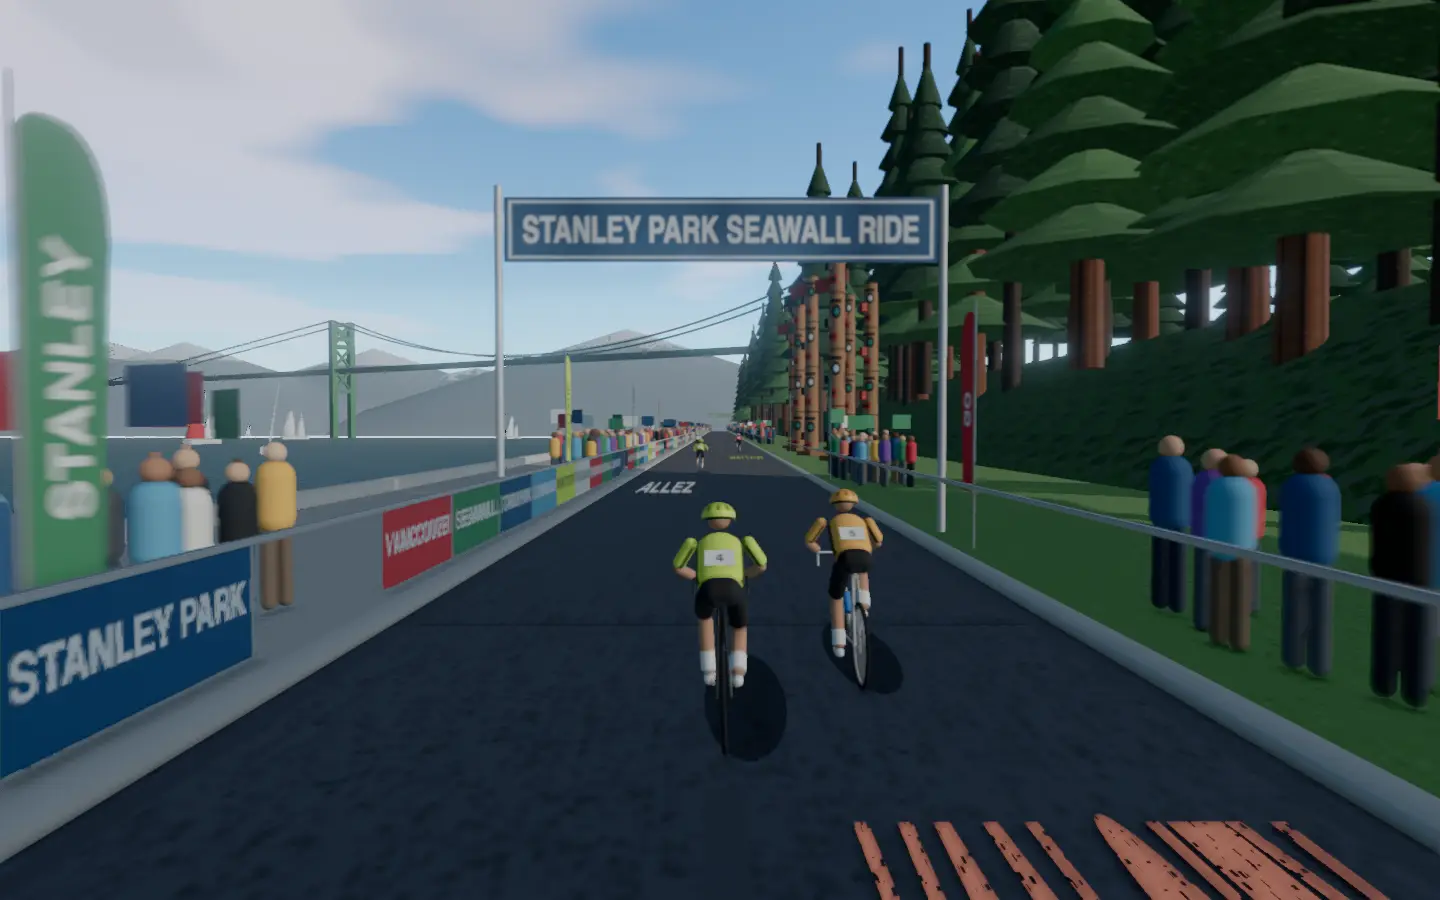
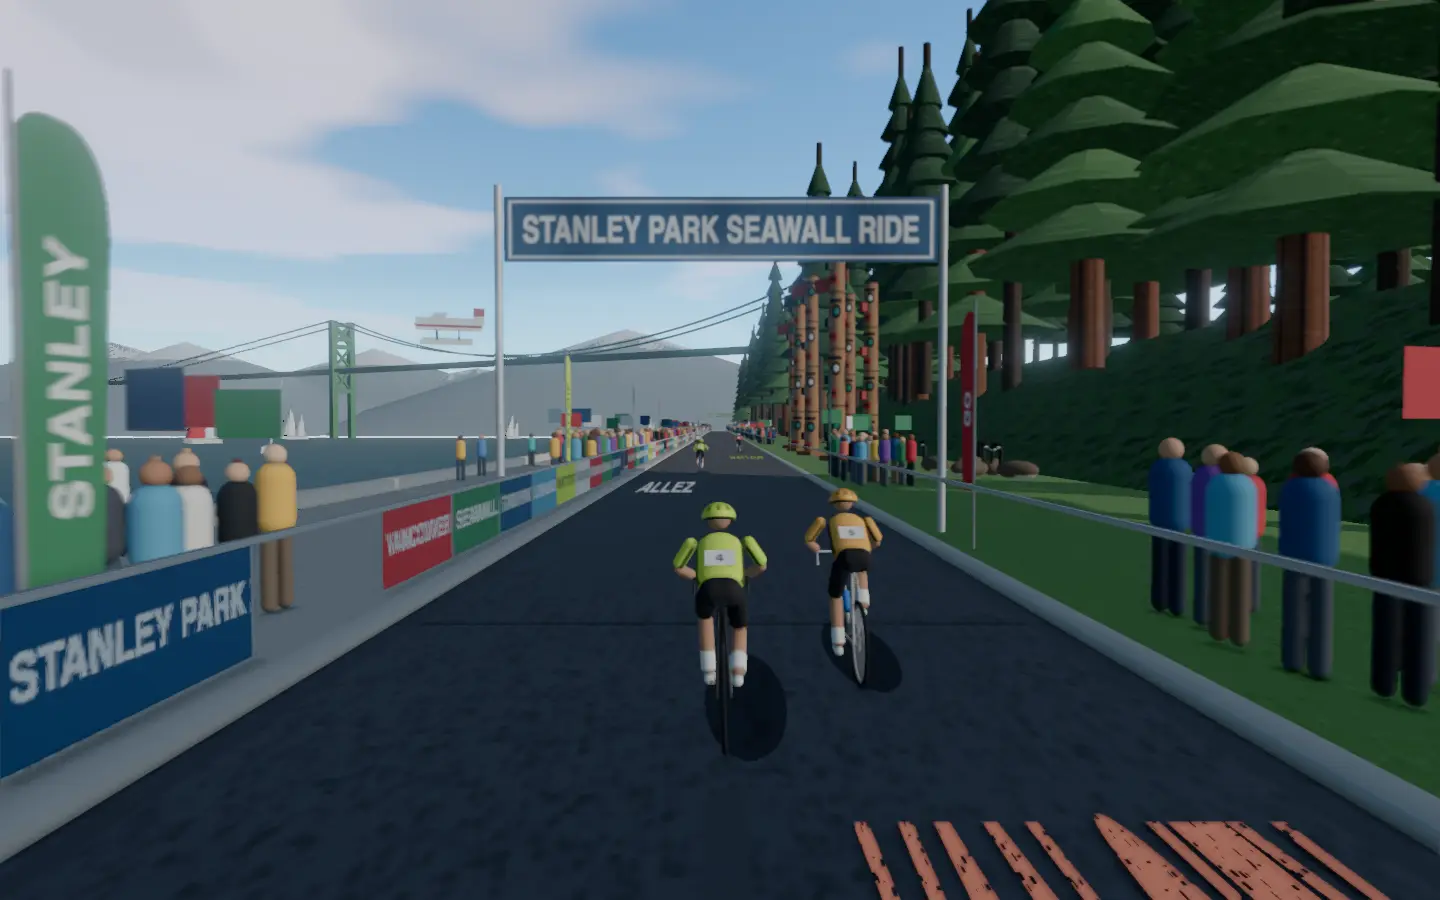
Bring life to Stanley Park's seawall: walkers, geese and a floatplane
The walkway's walkers and joggers grow from fourteen to twenty-six, half of
them in the stretch the rider first sees; flocks of Canada geese graze on
the verge; and a white floatplane with red-striped floats banks in a slow
arc low over English Bay toward Coal Harbour. Render quality 72% -> 74%
(crowd and life 6 -> 8).

diff --git a/frontend/projects/wattzup/src/app/core/world-stanleypark.ts b/frontend/projects/wattzup/src/app/core/world-stanleypark.ts
@@ -17,10 +17,12 @@ import {
   CylinderGeometry,
   DoubleSide,
   Group,
+  type Material,
   Mesh,
   MeshStandardMaterial,
   PlaneGeometry,
   RepeatWrapping,
+  SphereGeometry,
   type Texture,
   BoxGeometry,
 } from 'three/webgpu';
@@ -71,7 +73,9 @@ const BRIDGE_AHEAD = 480;
 const BRIDGE_X = 70;
 const BRIDGE_TURN = -0.5;
 const HAZE = 0xcfdde8;
-const WALKERS = 14;
+const WALKERS = 26;
+/** Canada geese grazing on the verge, in small flocks. */
+const GEESE = 14;
 const BOATS = 12;
 
 const SKINS = ['#f1c7a5', '#e2b48c', '#d9a17c', '#b67a55', '#8a5a3c', '#5e3b26'];
@@ -145,6 +149,8 @@ export class StanleyParkStreet implements SceneStreet {
   private readonly walkers: Walker[] = [];
   private people: Figures | null = null;
   private readonly horizon = new Group();
+  private readonly geese: { mesh: Group; offset: number; x: number; phase: number }[] = [];
+  private readonly floatplane = new Group();
   private time = 0;
   private readonly unit = new BoxGeometry(1, 1, 1);
   private readonly flagMaterials = ['#d8283a', '#ffffff', '#1f4e79', '#2e8b57'].map(
@@ -185,6 +191,8 @@ export class StanleyParkStreet implements SceneStreet {
     this.addRoadPaint();
     this.addBoats();
     this.addWalkers();
+    this.addGeese();
+    this.addFloatplane();
     this.addHorizon();
   }
 
@@ -233,6 +241,21 @@ export class StanleyParkStreet implements SceneStreet {
       });
       people.commit();
     }
+    // The geese peck at the grass, wandering a little.
+    for (const g of this.geese) {
+      const metres = along(g.offset, LOOP);
+      g.mesh.position.set(g.x + Math.sin(t * 0.1 + g.phase) * 0.4, ground(metres) + KERB, -metres);
+      g.mesh.rotation.y = g.phase + Math.sin(t * 0.07 + g.phase) * 0.8;
+      g.mesh.children[1]!.rotation.x = Math.max(0, Math.sin(t * 1.3 + g.phase)) * 1.1;
+    }
+    // The floatplane banks in a slow arc low over the bay, ahead and to the left.
+    const arc = t * 0.035;
+    this.floatplane.position.set(
+      -70 + Math.sin(arc) * 15,
+      heightAt(0) + 26 + Math.sin(arc * 2) * 2,
+      -200 + Math.cos(arc) * 15,
+    );
+    this.floatplane.rotation.set(0, arc + Math.PI / 2, 0.22);
     this.horizon.position.set(0, heightAt(BRIDGE_AHEAD), -BRIDGE_AHEAD);
   }
 
@@ -544,12 +567,97 @@ export class StanleyParkStreet implements SceneStreet {
       const running = i % 3 === 0;
       const ahead = i % 2 === 0;
       this.walkers.push({
-        offset: random() * LOOP,
+        // Half of them in the stretch the rider first sees, the rest round the loop.
+        offset: i % 2 ? 100 + random() * 160 : random() * LOOP,
         speed: (ahead ? 1 : -1) * (running ? 2.8 : 1.3),
         x: -(WALKWAY + (ahead ? -0.6 : 0.6)),
         phase: random() * 6,
       });
     }
+  }
+
+  /** Canada geese on the verge: brown backs, black necks with white chinstraps, heads down. */
+  private addGeese(): void {
+    const random = seeded(709);
+    const body = new SphereGeometry(1, 10, 8);
+    this.disposables.push(body);
+    const brown = this.material({ color: 0x6b5a48, roughness: 0.9 });
+    const black = this.material({ color: 0x161616, roughness: 0.8 });
+    const white = this.material({ color: 0xf2f2ee, roughness: 0.8 });
+    const pale = this.material({ color: 0xd8d0c0, roughness: 0.9 });
+    for (let k = 0; k < GEESE; k++) {
+      const goose = new Group();
+      const b = new Mesh(body, brown);
+      b.scale.set(0.2, 0.17, 0.38);
+      b.position.y = 0.32;
+      const belly = new Mesh(body, pale);
+      belly.scale.set(0.17, 0.12, 0.3);
+      belly.position.set(0, 0.26, 0.04);
+      b.castShadow = true;
+      // The neck pivots at the shoulders so the head dips to graze.
+      const neck = new Group();
+      neck.position.set(0, 0.38, -0.3);
+      const n = new Mesh(this.unit, black);
+      n.scale.set(0.06, 0.36, 0.06);
+      n.position.y = 0.18;
+      const head = new Mesh(body, black);
+      head.scale.set(0.06, 0.06, 0.1);
+      head.position.set(0, 0.37, -0.05);
+      const strap = new Mesh(body, white);
+      strap.scale.set(0.065, 0.035, 0.05);
+      strap.position.set(0, 0.34, -0.03);
+      neck.add(n, head, strap);
+      goose.add(b, neck, belly);
+      goose.scale.setScalar(1.8);
+      this.group.add(goose);
+      const flock = Math.floor(k / 5);
+      this.geese.push({
+        mesh: goose,
+        offset: 120 + flock * 45 + random() * 8,
+        x: 7.5 + random() * 4,
+        phase: random() * 6,
+      });
+    }
+  }
+
+  /**
+   * A floatplane over the bay: a white high-wing single-engine plane on two floats, a red
+   * stripe down its side and on its tail, banking in a slow arc as it comes in to Coal Harbour.
+   */
+  private addFloatplane(): void {
+    const white = this.material({ color: 0xf4f4f0, roughness: 0.5 });
+    const red = this.material({ color: 0xc0302a, roughness: 0.6 });
+    const dark = this.material({ color: 0x2a2e34, roughness: 0.5 });
+    const p = this.floatplane;
+    const part = (
+      m: Material,
+      w: number,
+      h: number,
+      d: number,
+      x: number,
+      y: number,
+      z: number,
+    ) => {
+      const mesh = new Mesh(this.unit, m);
+      mesh.scale.set(w, h, d);
+      mesh.position.set(x, y, z);
+      p.add(mesh);
+    };
+    part(white, 1.6, 1.8, 9.5, 0, 0, 0);
+    part(red, 1.65, 0.35, 9.6, 0, -0.2, 0);
+    part(dark, 1.5, 0.7, 1.4, 0, 0.5, -2.8);
+    part(white, 15, 0.25, 2, 0, 1.0, -1.6);
+    part(white, 0.25, 2.4, 1.6, 0, 1.4, 4.4);
+    part(red, 0.3, 1.2, 1.6, 0, 1.9, 4.4);
+    part(white, 5, 0.2, 1.4, 0, 0.3, 4.4);
+    for (const x of [-1.6, 1.6]) {
+      part(white, 0.6, 0.6, 7.5, x, -2.6, -0.4);
+      part(dark, 0.15, 1.8, 0.15, x * 0.7, -1.6, -1.8);
+      part(dark, 0.15, 1.8, 0.15, x * 0.7, -1.6, 1.4);
+    }
+    part(dark, 2.8, 0.15, 0.1, 0, 0, -4.85);
+    p.scale.setScalar(1.6);
+    this.group.add(p);
   }
 
   /**

diff --git a/docs/detailed-designs/world-ride/draw-class-scene/README.md b/docs/detailed-designs/world-ride/draw-class-scene/README.md
@@ -237,10 +237,10 @@ None.
   - crowds packed along both pavements, thickest before the stages, and the bands on the decks, all bouncing on the beat (`Figures`).
 - **Stanley Park Seawall (`core/world-stanleypark.ts`).** For `stanleypark`, the seawall path around Vancouver's Stanley Park on a clear morning, closed for the ride:
   - the path between low kerbs with the fans' writing every 25 m, race barriers hung with the ride's banners (STANLEY PARK, SEAWALL, VANCOUVER, ENGLISH BAY, LIONS GATE), the kit's feather flags every 16 m along both and cloth banners across it;
-  - on the left a concrete walkway where walkers and joggers go both ways (the kit's `Figures`), then the seawall's granite face dropping to English Bay, sailboats tacking on it; `sink` drops the ground below the water;
+  - on the left a concrete walkway where twenty-six walkers and joggers go both ways (the kit's `Figures`), half of them in the stretch the rider first sees, then the seawall's granite face dropping to English Bay, sailboats tacking on it; `sink` drops the ground below the water;
   - on the right a grass verge, a mossy rock bank rising 7 m and the forest on and above it: western red cedars with drooping tiers on fluted reddish trunks and tall dark Douglas firs;
   - once a lap, 140 m into the loop and so in the opening view, the totem poles of Brockton Point on their lawn 6.2 m off the centre line, the crowd and the trees standing back from them: carved cedar poles of four stacked figures painted black, red and blue-green, each turned so its faces and beaks look out over the path toward the oncoming riders, some with wings outstretched;
-  - the shared crowd in knots along the barriers;
+  - the shared crowd in knots along the barriers, flocks of Canada geese grazing on the verge, and a white floatplane with red stripes on its floats banking in a slow arc low over the bay ahead and to the left, coming in to Coal Harbour;
   - 480 m ahead the Lions Gate Bridge leaving the park's headland 70 m right of the path and crossing the narrows, turned half a radian away so its towers' legs stand apart and its deck and cables run off into the distance: green towers with portal struts and X-bracing in each bay, sagging main cables with hangers and the high deck, freighters at anchor in the bay and the North Shore mountains about 4 km off, forested ridges with snow on their tops, all hazed by hand.
 
   `lay`, `place` and `setTime` recycle it along a 500 m loop.

diff --git a/docs/class-worlds.md b/docs/class-worlds.md
@@ -25,7 +25,7 @@ Every class in `frontend/public/classes.json`, with its World Ride scene. Render
 | 19 | 15 Minutes HIIT Sprinting Efforts | Golden Gate Park | 81% | Fog drifts through the eucalyptus and Monterey cypress along John F. Kennedy Drive in San Francisco's Golden Gate Park, past roller skaters, Spreckels Lake and the bison grazing in their paddock toward the Dutch Windmill above Ocean Beach. The one-minute opener rolls through the eucalyptus groves, and the seven thirty-second sprints each fly past the bison paddock before a minute's recovery coasts on toward the windmill. |
 | 20 | In and Out, Shake It All About | Blackpool Illuminations | 68% | Seaside lights, piers and the tower; weave in and out of tram stops along the illuminated promenade. |
 | 21 | Quick Sprint Session | Copacabana Promenade (concept) |  | Rio's wave-patterned beachfront at sunset; sprint between volleyball nets with Sugarloaf on the horizon. |
-| 22 | 15 Minute Beginner Session | Stanley Park Seawall | 72% | The seawall path curls around Vancouver's Stanley Park between the cedars and the sea, past the totem poles at Brockton Point and sailboats on English Bay toward the green towers of the Lions Gate Bridge under the North Shore mountains. The easy warm-up rolls past the totem poles, the one- and two-minute pushes follow the seawall's curve under the cedars, and the single thirty-second sprint races toward the bridge. |
+| 22 | 15 Minute Beginner Session | Stanley Park Seawall | 74% | The seawall path curls around Vancouver's Stanley Park between the cedars and the sea, past the totem poles at Brockton Point and sailboats on English Bay toward the green towers of the Lions Gate Bridge under the North Shore mountains. The easy warm-up rolls past the totem poles, the one- and two-minute pushes follow the seawall's curve under the cedars, and the single thirty-second sprint races toward the bridge. |
 | 23 | 15 Minute Cardio Workout at Home | Suburban Sunrise | 70% | Quiet tree-lined streets at dawn; sprinklers ticking, papers landing, neighbours waving from porches. |
 | 24 | 15 Min HIIT Cardio: Belly Fat Loss | Bondi to Bronte (concept) |  | Sydney's clifftop coast path; surf breaking below and an ocean pool at every headland. |
 | 25 | 15 Minute HIIT Cardio | Serpentine, Hyde Park (concept) |  | London lakeside paths with rowing boats and swans; each effort sweeps around the Serpentine. |
